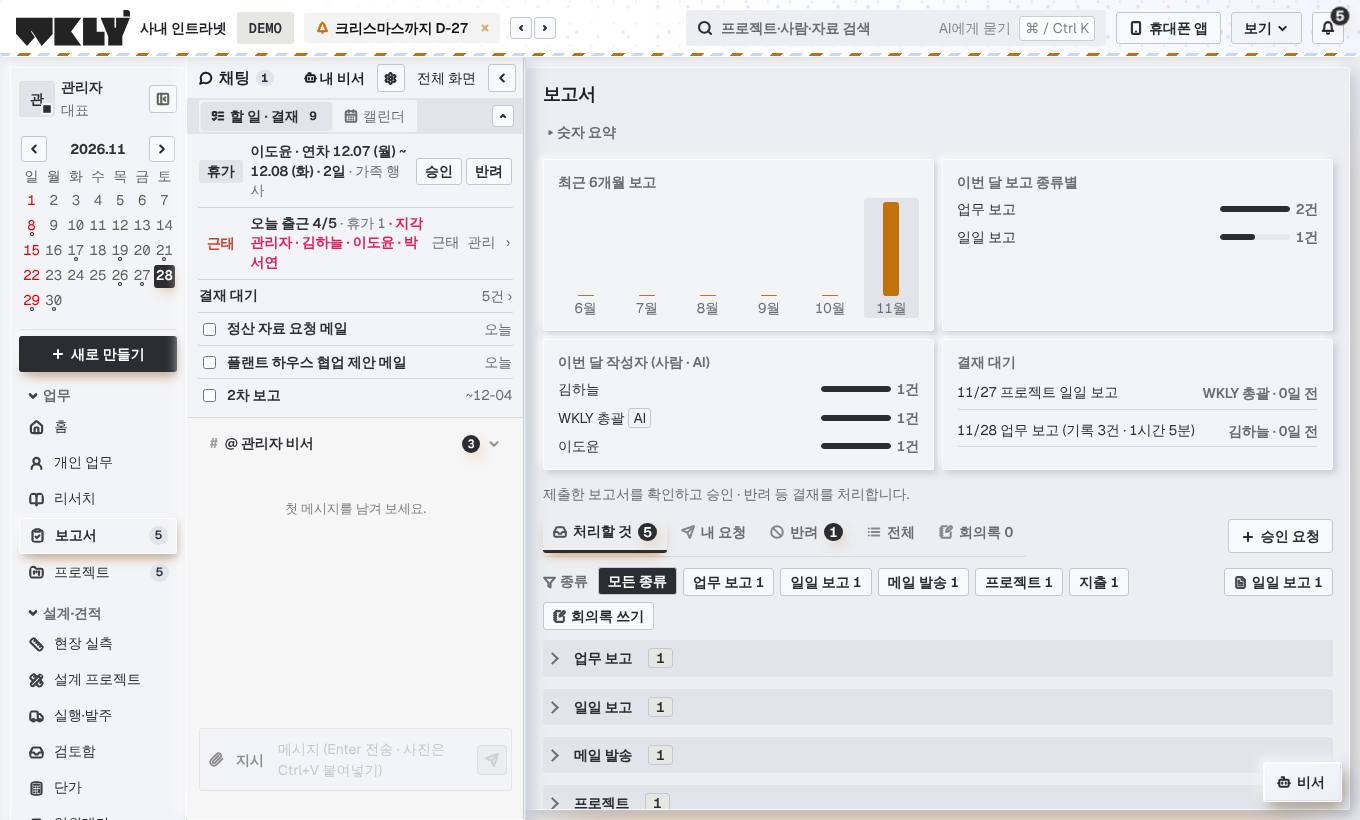
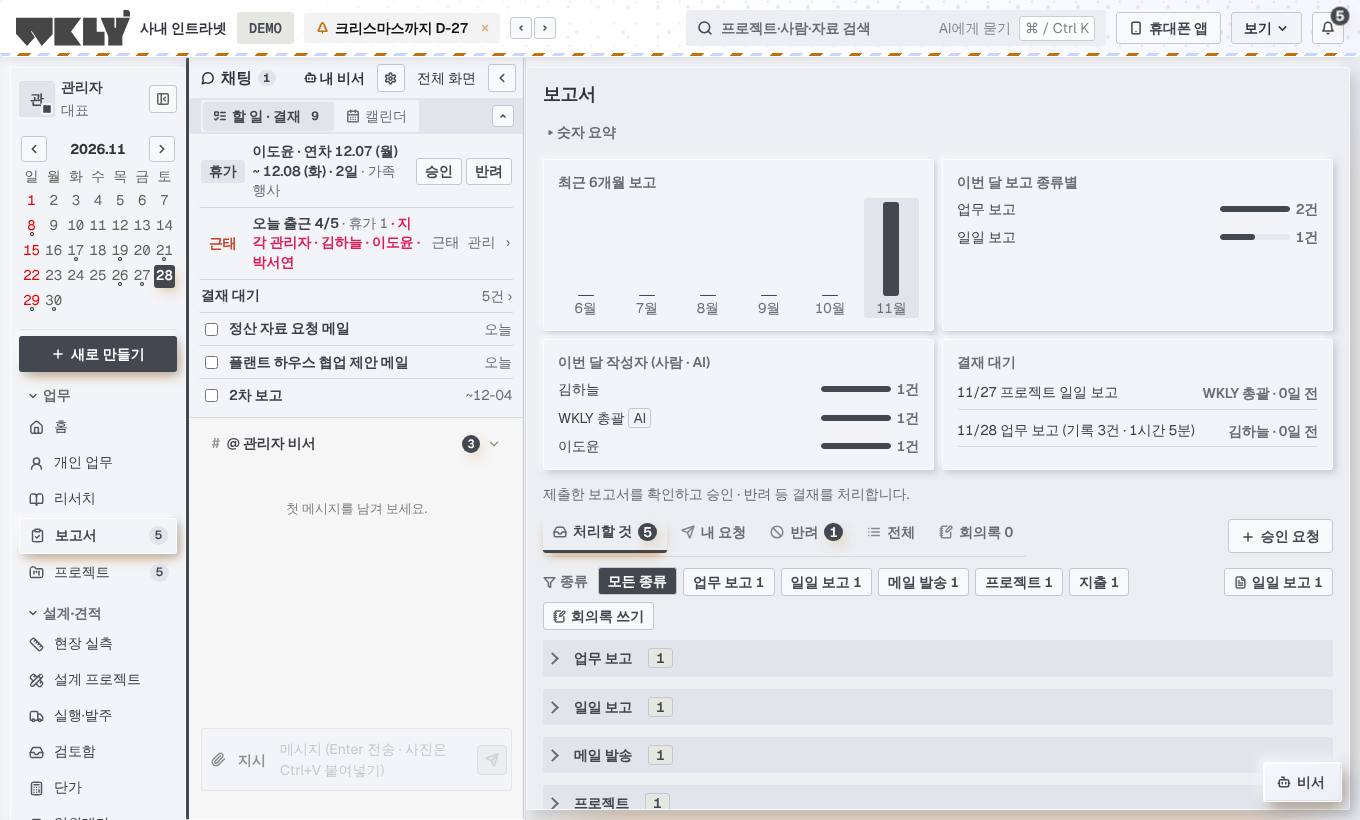
오프 블랙 · 얇은 아이콘 선 · 또렷한 채팅 손잡이(왼쪽에서 늘어남)
Claude-Session: https://claude.ai/code/session_01F3gTQwJrgJEzSdbh5GAwru

diff --git a/erp/src/mono.css b/erp/src/mono.css
@@ -276,7 +276,7 @@ html:not([data-theme="dark"]) .dash-day { background: var(--nm-face); border-col
 /* 스위치: <input type="checkbox" class="nm-switch"> — 켜면 먹색 홈 + 흰 손잡이 */
 input[type="checkbox"].nm-switch { appearance: none; -webkit-appearance: none; position: relative; width: 44px; height: 24px; margin: 0; border: 0; border-radius: 999px; background: #dfe2e8; box-shadow: var(--nm-in-sm, inset 0 1px 3px rgba(0, 0, 0, .2)); cursor: pointer; vertical-align: middle; transition: background-color .2s ease; flex: none; }
 input[type="checkbox"].nm-switch::after { content: ''; position: absolute; top: 2px; left: 2px; width: 20px; height: 20px; border-radius: 50%; background: #fff; box-shadow: 1px 2px 5px rgba(120, 128, 148, .55); transition: transform .2s ease; }
-input[type="checkbox"].nm-switch:checked { background: var(--v9-ink, #2b2d33); }
+input[type="checkbox"].nm-switch:checked { background: var(--v9-ink, #43474f); }
 input[type="checkbox"].nm-switch:checked::after { transform: translateX(20px); }
 input[type="checkbox"].nm-switch:focus-visible { outline: 2px solid var(--v9-accent); outline-offset: 2px; }
 /* 둥근 단추(아이콘) = 손잡이처럼 */
@@ -328,7 +328,7 @@ html:not([data-theme="dark"]) {
 }
 /* 주 버튼 = 먹색 + 메뉴 색 네온 그림자 */
 html:not([data-theme="dark"]) :is(.btn-primary, .new-btn, .today-ok, .btn.primary):not(:disabled) { background: var(--v9-ink) !important; color: #fff !important; box-shadow: var(--nm-up-sm), var(--nm-neon-sm) !important; }
-html:not([data-theme="dark"]) :is(.btn-primary, .new-btn, .today-ok, .btn.primary):not(:disabled):hover { background: #3a3d45 !important; box-shadow: var(--nm-up-sm), var(--nm-neon) !important; }
+html:not([data-theme="dark"]) :is(.btn-primary, .new-btn, .today-ok, .btn.primary):not(:disabled):hover { background: #565a64 !important; box-shadow: var(--nm-up-sm), var(--nm-neon) !important; }
 html:not([data-theme="dark"]) .app-page .profile :is(.new-btn, .btn-primary) { box-shadow: var(--nm-up-sm), var(--nm-neon-sm) !important; }
 /* 자주 누르는 버튼 · 고른 것 = 먹색 글자, 빛만 메뉴 색 */
 html:not([data-theme="dark"]) :is(.btn-blue, .btn-yellow, .send-btn):not(:disabled) { color: var(--v9-ink); }
@@ -358,9 +358,9 @@ html:not([data-theme="dark"]) .ast-fab { box-shadow: var(--nm-up-sm), var(--nm-n
 html:not([data-theme="dark"]) :is(.badge, .tag, .pill):not(.red):not(.late):not(.bad) { background: #e1e4ea; color: var(--v9-ink); border-color: transparent; }
 html:not([data-theme="dark"]) :is(.badge.red, .badge.late, .tag.red) { background: var(--nm-face); color: #c8442f; box-shadow: var(--nm-in-sm); border-color: transparent; }
 /* 홈 그래프: 끝낸 일 = 먹색, 마감 예정 = 회색, 지연 = 산호색 하나 — 빛만 메뉴 색 */
-html:not([data-theme="dark"]) :is(.dash-flow-col i.f-done, .dash-legend i.f-done, .dash-vbar-track i.s-active) { background: linear-gradient(160deg, #4a4d57, var(--v9-ink)); box-shadow: 1px 2px 5px -1px color-mix(in srgb, var(--v9-accent) 75%, transparent); }
+html:not([data-theme="dark"]) :is(.dash-flow-col i.f-done, .dash-legend i.f-done, .dash-vbar-track i.s-active) { background: linear-gradient(160deg, #5d616b, var(--v9-ink)); box-shadow: 1px 2px 5px -1px color-mix(in srgb, var(--v9-accent) 75%, transparent); }
 html:not([data-theme="dark"]) :is(.dash-flow-col i.f-due, .dash-legend i.f-due) { background: #b9bec9; box-shadow: none; }
-html:not([data-theme="dark"]) .dash-flow-col.is-today i.f-due { background: linear-gradient(160deg, #4a4d57, var(--v9-ink)); box-shadow: 0 0 0 2px color-mix(in srgb, var(--v9-accent) 30%, transparent), 2px 4px 12px color-mix(in srgb, var(--v9-accent) 80%, transparent); }
+html:not([data-theme="dark"]) .dash-flow-col.is-today i.f-due { background: linear-gradient(160deg, #5d616b, var(--v9-ink)); box-shadow: 0 0 0 2px color-mix(in srgb, var(--v9-accent) 30%, transparent), 2px 4px 12px color-mix(in srgb, var(--v9-accent) 80%, transparent); }
 html:not([data-theme="dark"]) .dash-flow-col.is-today span { color: var(--v9-ink); }
 
 /* 휴대폰 (2026-11-28 대표 '휴대폰 화면도 볼록 오목 디자인으로'): 아래 메뉴 = 떠 있는 판, 고른 칸 = 눌린 홈 + 메뉴 색 빛 */
@@ -442,7 +442,7 @@ html:not([data-theme="dark"]) button.item:is(.active, .on) { box-shadow: none; b
 [data-fold-head]::after { content: ''; position: absolute; left: 4px; top: 50%; width: 7px; height: 7px; margin-top: -5px; border-right: 2px solid var(--tx-sub, #6b6d72); border-bottom: 2px solid var(--tx-sub, #6b6d72); transform: rotate(45deg); transition: transform .2s ease; }
 [data-fold-head="1"]::after { transform: rotate(-45deg); margin-top: -4px; }
 [data-fold-head]::before { display: none !important; }
-[data-fold-head]:hover::after { border-color: var(--v9-ink, #2b2d33); }
+[data-fold-head]:hover::after { border-color: var(--v9-ink, #43474f); }
 [data-card-fold="1"] > :not(:first-child), [data-card-hidden="1"] { display: none !important; }
 [data-fold-head="1"] { margin-bottom: 0 !important; border-bottom-color: transparent !important; }
 @media print { [data-card-fold="1"] > :not(:first-child), [data-card-hidden="1"] { display: revert !important; } }
@@ -450,7 +450,7 @@ html:not([data-theme="dark"]) button.item:is(.active, .on) { box-shadow: none; b
 /* 제목 줄 없는 묶음 접기(숫자 카드 줄 · 오른쪽 일정 칸): 이름 띠를 눌러 접고 폄 */
 [data-fold-group]::before { content: '▾  ' attr(data-fold-label); display: block; grid-column: 1 / -1; flex: 0 0 100%; width: 100%; padding: 6px 4px; color: var(--tx-sub, #6b6d72); font-size: var(--fs-body); font-weight: 600; cursor: pointer; user-select: none; }
 [data-fold-group="1"]::before { content: '▸  ' attr(data-fold-label); }
-[data-fold-group]:hover::before { color: var(--v9-ink, #2b2d33); }
+[data-fold-group]:hover::before { color: var(--v9-ink, #43474f); }
 [data-fold-group="1"] > * { display: none !important; }
 [data-fold-group="1"] { min-height: 0 !important; height: auto !important; }
 
@@ -491,3 +491,23 @@ html:not([data-theme="dark"]) .rd-month .bar-pair i.in { background: var(--v9-in
   /* 카드 그림자 줄이기: 좁은 화면에서는 옅게 */
   html:not([data-theme="dark"]) :is(.box, .stat, .kpi, .card, .home-kpi, .today-card, .checkin-card, .brief, .rd-box, .pc-card, .proj-card, .dash-kpi, .dash-card, .section, .sales-pipe) { box-shadow: 2px 3px 8px var(--nm-lo), -2px -2px 6px var(--nm-hi); }
 }
+
+/* 2026-11-28 대표 '분명히 구분되게 만들고 왼쪽에서 늘어나게 · 선이 너무 굵어 얇게' */
+/* 아이콘 선은 얇게 (전체 공통) */
+html:not([data-theme="dark"]) svg.lucide, html:not([data-theme="dark"]) .app-page .profile .side-item > svg, html:not([data-theme="dark"]) .m-nav svg { stroke-width: 1.5 !important; }
+/* 접힌 채팅 손잡이: 먹색으로 또렷하게 · 왼쪽 판에 붙어 있음 */
+html:not([data-theme="dark"]) .app-page .body > .chat-dock.closed { width: 44px; margin-left: -2px; }
+html:not([data-theme="dark"]) .chat-dock.closed .chat-dock-open { background: var(--v9-ink) !important; color: #fff !important; border: 0; box-shadow: 4px 5px 12px var(--nm-lo), var(--nm-neon-sm); transition: width .2s ease, padding .2s ease, box-shadow .2s ease; }
+html:not([data-theme="dark"]) .chat-dock.closed .chat-dock-open :is(svg, span, .chat-dock-vert) { color: #fff !important; }
+html:not([data-theme="dark"]) .chat-dock.closed .chat-dock-open:hover { background: #565a64 !important; width: calc(100% + 8px); box-shadow: 4px 5px 12px var(--nm-lo), var(--nm-neon); }
+/* 펼칠 때: 왼쪽에서 늘어남 */
+@keyframes dock-grow { from { clip-path: inset(0 100% 0 0); opacity: .4; } to { clip-path: inset(0 0 0 0); opacity: 1; } }
+html:not([data-theme="dark"]) .app-page .body > .chat-dock:not(.closed) { animation: dock-grow .28s ease-out both; transform-origin: left center; border-left: 3px solid var(--v9-ink) !important; }
+@media (prefers-reduced-motion: reduce) { .app-page .body > .chat-dock:not(.closed) { animation: none !important; } }
+
+/* 검정은 더 연한 오프 블랙으로 (2026-11-28 대표 '검정색은 좀더 오프색으로 변경해') */
+html:not([data-theme="dark"]) {
+  --v9-ink: #43474f; --v8-green: #43474f; --v8-green-hover: #565a64; --v8-ink: #32353c; --v8-text: #3d4047;
+  --tx-title: #32353c; --tx-body: #3d4047; --tx-key: #43474f; --green: #43474f; --blue: #43474f; --pink: #43474f; --div-ar: #43474f;
+}
+html:not([data-theme="dark"]) .top-logo .logo-ink, html:not([data-theme="dark"]) .profile-logo img { opacity: .72; }

diff --git a/erp/src/pages/Dashboard.css b/erp/src/pages/Dashboard.css
@@ -13,7 +13,7 @@
 .dash-kpi.bad b { color: var(--red, #c0392b); }
 .dash-spark { grid-area: spark; background: var(--nm-face, #fff); border-radius: 0 0 10px 0; display: flex; align-items: flex-end; gap: 3px; padding: 0 12px 12px; height: 100%; min-height: 34px; }
 .dash-spark i { width: 3px; border-radius: 2px; background: #d2d2ce; }
-.dash-spark i.top { background: var(--v9-ink, #2b2d33); }
+.dash-spark i.top { background: var(--v9-ink, #43474f); }
 .dash-kpi-foot { grid-area: foot; font-size: var(--fs-body); color: var(--tx-sub); padding: 6px 12px 4px; white-space: nowrap; overflow: hidden; text-overflow: ellipsis; }
 .dash-kpi.is-key { box-shadow: var(--glow-2, none); border-color: transparent; }
 .dash-kpi.is-key .dash-spark i.top { background: var(--v9-accent, #1f4dff); box-shadow: 2px 2px 8px color-mix(in srgb, var(--v9-accent) 70%, transparent); }
@@ -28,7 +28,7 @@
 .dash-empty { color: var(--tx-sub); font-size: var(--fs-body); margin: 6px 0; }
 .dash-legend { display: inline-flex; flex-wrap: wrap; align-items: center; gap: 4px 6px; font-size: var(--fs-body); color: var(--tx-sub); }
 .dash-legend i { width: 9px; height: 9px; border-radius: 2px; display: inline-block; margin-left: 8px; }
-.s-active { background: var(--v9-ink, #2b2d33); } .s-inq { background: #9a9a96; } .s-done { background: #cfcfcb; } .s-other { background: #e6e6e3; } .s-late { background: #d2564a; }
+.s-active { background: var(--v9-ink, #43474f); } .s-inq { background: #9a9a96; } .s-done { background: #cfcfcb; } .s-other { background: #e6e6e3; } .s-late { background: #d2564a; }
 
 /* 업무 흐름: 점 격자 */
 .dash-flow-top { display: flex; align-items: baseline; gap: 8px; margin-bottom: 12px; flex-wrap: wrap; }
@@ -36,7 +36,7 @@
 .dash-flow { display: grid; grid-auto-flow: column; grid-auto-columns: minmax(0, 1fr); gap: 3px; }
 .dash-flow-col { display: flex; flex-direction: column; gap: 3px; align-items: stretch; position: relative; min-width: 0; }
 .dash-flow-col i { display: block; aspect-ratio: 1; max-height: 16px; border-radius: 3px; background: #f1f1ef; }
-.dash-flow-col i.f-done { background: var(--v9-ink, #2b2d33); } .dash-flow-col i.f-due { background: #a9a9a5; } .dash-flow-col i.f-late { background: #d2564a; }
+.dash-flow-col i.f-done { background: var(--v9-ink, #43474f); } .dash-flow-col i.f-due { background: #a9a9a5; } .dash-flow-col i.f-late { background: #d2564a; }
 .dash-flow-col span { font-family: var(--mono); font-size: var(--fs-body); color: var(--tx-sub); white-space: nowrap; height: 1.4em; margin-top: 4px; overflow: visible; }
 .dash-flow-col.is-today i:not([class]), .dash-flow-col.is-today i[class=''] { background: var(--v9-accent-tint, #e9eeff); }
 .dash-flow-col.is-today { filter: drop-shadow(3px 4px 6px color-mix(in srgb, var(--v9-accent) 55%, transparent)); }
@@ -60,10 +60,10 @@
 .dash-table tbody tr:hover { background: #fafaf9; }
 .dash-table-name { color: var(--tx-title); font-weight: 600; text-decoration: none; }
 .dash-table-name:hover { text-decoration: underline; }
-.dash-prog { display: inline-block; vertical-align: middle; width: 90px; height: 6px; border-radius: 3px; background: #ececea; overflow: hidden; } .dash-prog i { display: block; height: 100%; background: var(--v9-ink, #2b2d33); border-radius: 3px; }
+.dash-prog { display: inline-block; vertical-align: middle; width: 90px; height: 6px; border-radius: 3px; background: #ececea; overflow: hidden; } .dash-prog i { display: block; height: 100%; background: var(--v9-ink, #43474f); border-radius: 3px; }
 .dash-pct { margin-left: 8px; color: var(--tx-sub); }
 .dash-d { font-family: var(--mono); font-size: var(--fs-body); padding: 2px 9px; border-radius: 999px; background: #f0f0ee; color: var(--tx-sub); }
-.dash-d.soon { background: var(--v9-ink, #2b2d33); color: #fff; } .dash-d.late { background: #fbe6e3; color: #b3372a; }
+.dash-d.soon { background: var(--v9-ink, #43474f); color: #fff; } .dash-d.late { background: #fbe6e3; color: #b3372a; }
 .dash-pill { display: inline-flex; align-items: center; gap: 6px; font-size: var(--fs-body); padding: 2px 10px; border-radius: 999px; border: 1px solid var(--line); background: var(--nm-face, #fff); }
 .dash-pill::before { content: ''; width: 7px; height: 7px; border-radius: 50%; background: var(--v9-live, #33d17a); box-shadow: 0 0 6px var(--v9-live, #33d17a); }
 .dash-pill.bad::before { background: #d2564a; box-shadow: 0 0 6px rgba(210, 86, 74, .8); }
@@ -74,7 +74,7 @@
 .dash-day.is-rest { background: #fafaf9; } .dash-day.is-today { border-color: transparent; box-shadow: var(--glow-2, none); }
 .dash-day-h { font-family: var(--mono); font-size: var(--fs-body); color: var(--tx-sub); } .dash-day-h b { font-weight: 600; color: var(--tx-title); }
 .dash-ev { display: block; font-size: var(--fs-body); line-height: 1.3; padding: 2px 6px; border-radius: 6px; background: #f0f0ee; color: var(--tx-body); text-decoration: none; overflow: hidden; display: -webkit-box; -webkit-line-clamp: 2; -webkit-box-orient: vertical; word-break: break-all; }
-.dash-ev.e-start { background: var(--v9-ink, #2b2d33); color: #fff; } .dash-ev.e-end { background: var(--nm-face, #fff); color: var(--v9-ink, #2b2d33); box-shadow: inset 0 0 0 1px var(--v9-ink, #2b2d33); }
+.dash-ev.e-start { background: var(--v9-ink, #43474f); color: #fff; } .dash-ev.e-end { background: var(--nm-face, #fff); color: var(--v9-ink, #43474f); box-shadow: inset 0 0 0 1px var(--v9-ink, #43474f); }
 .dash-more { font-size: var(--fs-body); color: var(--tx-sub); }
 .dash-bar-row { display: grid; grid-template-columns: 96px minmax(0, 1fr) 64px; align-items: center; gap: 10px; padding: 7px 0; font-size: var(--fs-body); }
 .dash-bar-name { color: var(--tx-body); white-space: nowrap; overflow: hidden; text-overflow: ellipsis; }
@@ -102,7 +102,7 @@ html[data-theme=dark] :is(.dash-body, .dash-kpi-l, .dash-kpi b, .dash-spark, .da
 .dash-kpi-l { background: transparent; padding: 0; color: var(--tx-sub); }
 .dash-kpi b { background: transparent; padding: 2px 0 0; font-size: calc(var(--t-num, 24px) * 1.15); }
 .dash-kpi-foot { padding: 8px 0 0; margin-top: 8px; border-top: 1px solid var(--v8-line, #d5d8df); }
-.dash-kpi-ic { grid-area: ic; display: grid; place-items: center; width: 46px; height: 46px; border-radius: 50%; background: var(--nm-face, #f3f4f7); box-shadow: var(--nm-up-sm, 0 1px 3px rgba(0, 0, 0, .15)); color: var(--v9-ink, #2b2d33); }
+.dash-kpi-ic { grid-area: ic; display: grid; place-items: center; width: 46px; height: 46px; border-radius: 50%; background: var(--nm-face, #f3f4f7); box-shadow: var(--nm-up-sm, 0 1px 3px rgba(0, 0, 0, .15)); color: var(--v9-ink, #43474f); }
 .dash-kpi-ic svg { width: 18px; height: 18px; }
 .dash-kpi.is-key .dash-kpi-ic { background: var(--v9-accent); color: #fff; box-shadow: 4px 6px 14px -4px color-mix(in srgb, var(--v9-accent) 65%, transparent); }
 .dash-kpi.bad .dash-kpi-ic { color: var(--red, #c0392b); }

diff --git a/erp/src/pages/Board.css b/erp/src/pages/Board.css
@@ -98,5 +98,5 @@ button.pboards-item { padding-right: 120px; }
 .board-pages { flex-wrap: nowrap; overflow-x: auto; scrollbar-width: thin; }
 .board-pages > * { flex: none; }
 .board-pages-gap { flex: 1 1 12px !important; min-width: 12px; }
-.board-toolsbtn.on { background: var(--v9-ink, #2b2d33) !important; color: #fff !important; border-color: var(--v9-ink, #2b2d33) !important; }
+.board-toolsbtn.on { background: var(--v9-ink, #43474f) !important; color: #fff !important; border-color: var(--v9-ink, #43474f) !important; }
 .board-bar { flex-wrap: nowrap; } .board-bar .board-title { flex: 1 1 160px; }

diff --git a/CLAUDE.md b/CLAUDE.md
@@ -112,7 +112,7 @@ Codex 공동 개발은 끝났다(2026-11-16 종료 · 2026-11-20 대표 지시 '
   - `src/styles.css` : 디자인 토큰 · WKLY v7 디자인 시스템 (사각 모서리, 글자 크기 단계 `--fs-cap 12 · sm 12.5 · body 13.5 · sub 14.5 · title 16 · num 19 · hero 28` (2026-11-09 위계 다시 잡음 · 맨 아래 :root 가 최종값 · 터치 화면은 반 단계 큼))
   - (아래 글자 위계의 굵기 800 · 700 은 2026-11-28 디자인 v9 에서 700 · 600 으로, 색 값은 mono.css 토큰으로 바뀜 — 크기 3단계 · px 직접 쓰지 않기 규칙은 그대로)
   - **글자 위계 (2026-11-17 대표 지시 '전체 공통사항 · 글자 크기는 타이틀 · 본문 · 강조 3가지만 · 색 구분과 볼드 규칙') — 새 화면도 반드시 지킬 것**: `src/type.css` 를 main.tsx 맨 끝에서 읽어 앞의 모든 단계를 덮어씀. 크기 3개 = 타이틀 `--t-title` 18px(제목 · 큰 숫자) · 강조 `--t-em` 15.5px(소제목 · 이름 줄) · 본문 `--t-body` 14px(나머지 전부 — 날짜 · 메타 · 배지 포함, 터치 화면 18.5/16/15) · 예전 토큰은 cap/sm/small/body → 본문, sub → 강조, title/num/hero → 타이틀로 이어짐. CSS 에 px 글자 크기를 새로 쓰지 말고 var(--fs-body | --fs-sub | --fs-title) 만 쓸 것(2026-11-17 에 94곳 바꿈 · 예외는 알림 숫자 동그라미 .side-n · .q2-badge · .bell .count 12px). 굵기 3개 = 800 타이틀 · 700 강조 · 400 본문(500 · 600 · 650 · 750 안 씀 · 76곳 바꿈). 색 = --tx-title #151d18 · --tx-body #222a25 · --tx-sub #535c56(보조는 크기 대신 색으로 낮춤 · --gray 도 이 색) · --tx-key #1f6b4a(누를 수 있는 것 · 고른 것) · 빨강은 지연 · 경고만. 묶음 클래스 .tx-title · .tx-em · .tx-body · .tx-sub · .tx-key. 차트 SVG 글자(charts.tsx 등)는 그대로
-  - **디자인 v9 모노톤 + 네온 빛 (2026-11-28 대표가 핀터레스트 참고 화면 넷을 골라 '이것들을 조합해서 디자인잡아 · 인트라넷 디자인 전체를 변경해 · 모노톤과 네온 효과' → '남은 화면들도 모노톤으로 · 폰트와 디자인규칙까지 모두 변경해 · 대시보드또한 디자인 배치 다시' · '색은 첨부이미지와 같이 네온 효과' · '빛이 새어나가는 효과를 잘 만들어') — 규칙 문서 `erp/docs/DESIGN_V9.md` · 새 화면도 반드시 이 규칙**: `src/mono.css`(main.tsx 맨 끝)가 토큰을 정함. ① 색 = 회색 계열 하나(바탕 #f0f0ee · 흰 카드 · 먹색 #141414 = 고른 것 · 막대) + 네온 파랑 `--v9-accent` #1f4dff 하나 · 빨강 · 노랑은 지연 · 경고만 · 초록 점은 '정상'만 ② 네온 = 가장자리에서 오른쪽 아래로 새어 나가는 파랑 빛 `--glow-1/2/3` · `--neon-soft` — 주 버튼 · 고른 것 · 오늘 · 가장 중요한 숫자 하나 · 누를 수 있는 카드 hover 에만, 글자색으로는 안 씀 ③ 글꼴 = 영문 · 숫자 Geist · 한글 Pretendard · 큰 숫자 · 연번 Geist Mono(구글 폰트 · index.html) · 크기 18 / 15.5 / 14 그대로 + 큰 숫자 `--t-num` 24 · **굵기 700 / 600 / 400**(예전 800 / 700 을 CSS 전체에서 한 단계씩 내림) ④ 모서리 카드 14 · 버튼 10 · 알약 ⑤ 카드 틀 = 회색 머리 + 흰 본문. 같은 날 **모든 CSS 의 굳은 색을 회색으로 바꿈**(초록 · 미색 · 보라 → 같은 밝기 회색 · 파랑 → `--v9-accent` / `-tint` · '화면 어둡게' 규칙 줄은 그대로 · 빨강 · 주황 · 노랑은 그대로) — **새 CSS 에 색 값을 직접 쓰지 말고 토큰을 쓸 것.** 구분 색은 `--div-ar/tw/rs`(먹색 · 회색 · 연회색) · 달력 내 업무는 네온 파랑. 홈 대시보드 새 배치(`pages/Dashboard.tsx` · `.css`): 인사 + 주 버튼 → 숫자 카드 넷(작은 막대 · 아래 설명 줄 · 첫 카드에 빛) → '업무 흐름' 점 격자(지난 2주 끝낸 일 · 앞으로 2주 마감 · 오늘 기둥에 빛 · `lib/dashboard.ts` dayFlow) + 팀원 세로 막대 → 마감이 가까운 프로젝트 표(진행 막대 · 상태 알약) → 앞으로 7일 · 구분별 → 진행 프로젝트 카드. 같은 날 2차 '부드럽게'(대표 '아직 안 바꾼 곳들도 모두 모노톤으로' · '디자인 ui,ux도 바꿔 · 색상의 사용도 수정하고 · 부드러운 느낌'): 새까만 색 대신 부드러운 먹색 `--v9-ink` #2b2d33 · 고른 것은 검은 알약 대신 연한 파랑 바탕 · 자주 누르는 버튼(.btn-blue 등)은 연한 파랑 · 테두리 대신 옅은 그림자 · 카드 18 / 버튼 12 · **styles.css 의 '모든 모서리 0 !important' 고정을 없앰(다시 넣지 말 것)** · 빛은 테 없이 넓게 · 0.2초 전환 · 창 뒤 뿌옇게. 차트(LedgerStats · MarketingFlow) · 화이트보드(미니맵 · 커서 · Excalidraw 색) · 설계(제안 보드 견본 색 · 3D 바닥 · 도면 바탕) · 기념일 장식 띠 · PC 오프라인 화면(desktop/offline.html — 다음 PC 프로그램 릴리스 때 반영)도 회색 + 네온 파랑. 그대로 둔 것: 실제 자재 색(3D · 마감재) · 거래처에 나가는 것(제안서 슬라이드 · 영업 메일 · 카드뉴스 · 광고 이미지). 같은 날 3차 '선명하게 · 메뉴마다 다른 색'(대표 '광고 화면 기간 고르기 칸과 묶음 탭도 고쳐 · 아이콘과 배경들 각각의 카드들의 선구분을 선명하게 · 색은 각 메뉴마다 다른 색' · 참고 Product UI Styleguide): **강조색 `--v9-accent` 는 메뉴마다 다름**(`lib/menuColors.ts` · Shell 이 지금 메뉴 색을 html 에 넣음 · 빛 · 연한 바탕 · 주 버튼은 color-mix 로 계산 — CSS 에 파랑을 직접 쓰지 말 것 · 새 메뉴는 색 한 줄 추가) · 왼쪽 메뉴는 대표 지시로 다시 모노톤(아이콘 · 고른 줄 · 숫자 칸 먹색 — 메뉴 색은 화면 안에서만) · 카드는 흰 바탕 + 1px 선 #dbdbd7 + 옅은 그림자(바탕 #eeeeeb) · 광고 묶음 탭 = 홈 안의 흰 카드 · 기간 고르기 = 알약. 같은 날 4차 '볼록 · 오목'(대표가 뉴모피즘 참고 그림 두 장을 보내 '이 ui도 사용해' · '이것도 넣어'): 면은 바탕과 거의 같은 밝은 회색 · 구분은 왼쪽 위 빛 + 오른쪽 아래 그림자(`--nm-up` 떠 있음 = 카드 · 버튼 / `--nm-in` 눌림 = 입력 칸 · 고른 칩 · 고른 메뉴 줄) · 구간 고르기는 회색 홈 + 흰 알약 · 켜고 끄는 설정은 체크박스에 className `nm-switch`(스위치 모양). 같은 날 5차(대표 '나머지 화면들도 모두 볼록 오목 디자인으로 · 모서리 라운드 좀 더 각지게'): 흰 바탕을 없앰 — `--white` · `--v8-card` 와 모든 CSS 의 흰 바탕 165곳을 `var(--nm-face)` 로(**새 CSS 에 `background: #fff` 를 쓰지 말 것**) · 테두리 있는 묶음 칸 30여 종을 떠 있는 모양으로 · 모서리 카드 10 / 버튼 · 입력 · 칩 7 / 큰 판 12(알약 · 원은 스위치와 숫자 동그라미만). **같은 날 최종 규칙(대표 '너무 많은 색을 사용하지마 · 전체적으로 모노톤에 그림자를 네온 번지는 효과로 · 각 메뉴마다 다른 색' · '휴대폰 화면도 볼록 오목'): 면 · 글자 · 아이콘 · 버튼 · 숫자 동그라미는 먹색과 회색만, 메뉴 색(`--v9-accent`)은 그림자가 번지는 빛(`--nm-neon` · `--nm-neon-sm`)으로만 쓴다 — 색 글자 · 색 바탕 버튼 · 색 배지를 새로 만들지 말 것. 빨강(산호색)은 지연 · 경고만. 휴대폰 아래 메뉴도 떠 있는 판 + 고른 칸 눌린 홈.** 같은 날(대표 '채팅 화면도 볼록 오목 · 아이콘 오목으로 · 채팅 상단부 높이 내려서 왼쪽에서 돌출 · 비서도 양각 유리'): 왼쪽 메뉴 아이콘 칸 = 오목 · 접힌 채팅 칸(.chat-dock.closed) = 왼쪽 판에서 튀어나온 짧은 손잡이 · 비서 단추(.ast-fab) · 비서 창 = 양각 유리 · 채팅 방 목록 눌린 홈 / 고른 방 떠 있음 / 입력 칸 눌린 홈. **절제(대표 '양각과 음각을 너무 많이 사용하지마 사용성 떨어져'): 깊이는 한 단계만 — 떠 있는 것은 큰 카드 · 본문 판 · 주 버튼 · 비서 단추 · 접힌 채팅 손잡이, 눌린 것은 왼쪽 메뉴 아이콘 칸뿐. 카드 안의 표 · 칩 · 작은 버튼 · 입력 칸 · 막대 · 말풍선은 평평하게(옅은 선 · `--nm-flat` · `--nm-field`) — 새 화면에서 카드 안에 그림자를 또 넣지 말 것.** 화이트보드 편집기 머리(대표 '두줄로 줄이고 전체보기 네비게이션도 포함해서 접었다 펼 수 있게'): 첫 줄 = 이름 · 상태 · '도구' 단추 · 전체 화면, 둘째 줄(도구 줄 · 한 줄 · 넘치면 옆으로 밀기) = 페이지 · PPT 불러오기 · 피그마 · PNG · PDF · PPT · 지도 단추 — '도구'로 접고 폄(기본 접힘 · localStorage wkly-board-tools) · 전체 보기 지도도 도구를 펼쳤을 때만 보임. **모든 카드 접기(대표 '모든 카드는 접을 수 있게 만들고 기본은 접은 상태야' · 범위 확인 '인트라넷 전체 카드' · `lib/foldCards.ts` · main.tsx startFoldCards): 본문의 제목 줄 있는 묶음은 처음에 제목만 보이고 누르면 펼침 · 펼친 것은 브라우저에 기억(wkly-card-open) · 주소에 id · inquiry 등 특정 항목이 있으면 안 접음 · 새 카드는 제목에 SectionHead 를 쓰면 저절로 대상 · 접히면 안 되는 곳은 `data-no-fold`. 시험 tests/fold-cards.test.ts.** 같은 날(대표 '숫자 카드와 오른쪽 일정 칸도 접을 수 있게 · 모서리 라운드 최소화' · '아이콘들 양각 효과 없애 전체 공통이야'): 숫자 카드 줄 · 오른쪽 일정 칸도 이름 띠로 접고 폄(foldCards.ts GROUPS · 기본 접힘) · **모서리는 어디나 3px**(스위치 · 숫자 동그라미 · 점만 예외) · **아이콘 · 아이콘 칸은 평평하게(그림자 · 볼록 · 오목 금지)**. 사용 안내 사진 13장 · 영상 3개 다시 찍음 · 안내 글(guides.ts 두 곳)의 홈 · 할 일(/my) · 일정(/projects?view=calendar)을 새 구조에 맞춤(agent-chat 쪽은 다음 배포 때 반영).
+  - **디자인 v9 모노톤 + 네온 빛 (2026-11-28 대표가 핀터레스트 참고 화면 넷을 골라 '이것들을 조합해서 디자인잡아 · 인트라넷 디자인 전체를 변경해 · 모노톤과 네온 효과' → '남은 화면들도 모노톤으로 · 폰트와 디자인규칙까지 모두 변경해 · 대시보드또한 디자인 배치 다시' · '색은 첨부이미지와 같이 네온 효과' · '빛이 새어나가는 효과를 잘 만들어') — 규칙 문서 `erp/docs/DESIGN_V9.md` · 새 화면도 반드시 이 규칙**: `src/mono.css`(main.tsx 맨 끝)가 토큰을 정함. ① 색 = 회색 계열 하나(바탕 #f0f0ee · 흰 카드 · 먹색 #141414 = 고른 것 · 막대) + 네온 파랑 `--v9-accent` #1f4dff 하나 · 빨강 · 노랑은 지연 · 경고만 · 초록 점은 '정상'만 ② 네온 = 가장자리에서 오른쪽 아래로 새어 나가는 파랑 빛 `--glow-1/2/3` · `--neon-soft` — 주 버튼 · 고른 것 · 오늘 · 가장 중요한 숫자 하나 · 누를 수 있는 카드 hover 에만, 글자색으로는 안 씀 ③ 글꼴 = 영문 · 숫자 Geist · 한글 Pretendard · 큰 숫자 · 연번 Geist Mono(구글 폰트 · index.html) · 크기 18 / 15.5 / 14 그대로 + 큰 숫자 `--t-num` 24 · **굵기 700 / 600 / 400**(예전 800 / 700 을 CSS 전체에서 한 단계씩 내림) ④ 모서리 카드 14 · 버튼 10 · 알약 ⑤ 카드 틀 = 회색 머리 + 흰 본문. 같은 날 **모든 CSS 의 굳은 색을 회색으로 바꿈**(초록 · 미색 · 보라 → 같은 밝기 회색 · 파랑 → `--v9-accent` / `-tint` · '화면 어둡게' 규칙 줄은 그대로 · 빨강 · 주황 · 노랑은 그대로) — **새 CSS 에 색 값을 직접 쓰지 말고 토큰을 쓸 것.** 구분 색은 `--div-ar/tw/rs`(먹색 · 회색 · 연회색) · 달력 내 업무는 네온 파랑. 홈 대시보드 새 배치(`pages/Dashboard.tsx` · `.css`): 인사 + 주 버튼 → 숫자 카드 넷(작은 막대 · 아래 설명 줄 · 첫 카드에 빛) → '업무 흐름' 점 격자(지난 2주 끝낸 일 · 앞으로 2주 마감 · 오늘 기둥에 빛 · `lib/dashboard.ts` dayFlow) + 팀원 세로 막대 → 마감이 가까운 프로젝트 표(진행 막대 · 상태 알약) → 앞으로 7일 · 구분별 → 진행 프로젝트 카드. 같은 날 2차 '부드럽게'(대표 '아직 안 바꾼 곳들도 모두 모노톤으로' · '디자인 ui,ux도 바꿔 · 색상의 사용도 수정하고 · 부드러운 느낌'): 새까만 색 대신 부드러운 먹색 `--v9-ink` #2b2d33 · 고른 것은 검은 알약 대신 연한 파랑 바탕 · 자주 누르는 버튼(.btn-blue 등)은 연한 파랑 · 테두리 대신 옅은 그림자 · 카드 18 / 버튼 12 · **styles.css 의 '모든 모서리 0 !important' 고정을 없앰(다시 넣지 말 것)** · 빛은 테 없이 넓게 · 0.2초 전환 · 창 뒤 뿌옇게. 차트(LedgerStats · MarketingFlow) · 화이트보드(미니맵 · 커서 · Excalidraw 색) · 설계(제안 보드 견본 색 · 3D 바닥 · 도면 바탕) · 기념일 장식 띠 · PC 오프라인 화면(desktop/offline.html — 다음 PC 프로그램 릴리스 때 반영)도 회색 + 네온 파랑. 그대로 둔 것: 실제 자재 색(3D · 마감재) · 거래처에 나가는 것(제안서 슬라이드 · 영업 메일 · 카드뉴스 · 광고 이미지). 같은 날 3차 '선명하게 · 메뉴마다 다른 색'(대표 '광고 화면 기간 고르기 칸과 묶음 탭도 고쳐 · 아이콘과 배경들 각각의 카드들의 선구분을 선명하게 · 색은 각 메뉴마다 다른 색' · 참고 Product UI Styleguide): **강조색 `--v9-accent` 는 메뉴마다 다름**(`lib/menuColors.ts` · Shell 이 지금 메뉴 색을 html 에 넣음 · 빛 · 연한 바탕 · 주 버튼은 color-mix 로 계산 — CSS 에 파랑을 직접 쓰지 말 것 · 새 메뉴는 색 한 줄 추가) · 왼쪽 메뉴는 대표 지시로 다시 모노톤(아이콘 · 고른 줄 · 숫자 칸 먹색 — 메뉴 색은 화면 안에서만) · 카드는 흰 바탕 + 1px 선 #dbdbd7 + 옅은 그림자(바탕 #eeeeeb) · 광고 묶음 탭 = 홈 안의 흰 카드 · 기간 고르기 = 알약. 같은 날 4차 '볼록 · 오목'(대표가 뉴모피즘 참고 그림 두 장을 보내 '이 ui도 사용해' · '이것도 넣어'): 면은 바탕과 거의 같은 밝은 회색 · 구분은 왼쪽 위 빛 + 오른쪽 아래 그림자(`--nm-up` 떠 있음 = 카드 · 버튼 / `--nm-in` 눌림 = 입력 칸 · 고른 칩 · 고른 메뉴 줄) · 구간 고르기는 회색 홈 + 흰 알약 · 켜고 끄는 설정은 체크박스에 className `nm-switch`(스위치 모양). 같은 날 5차(대표 '나머지 화면들도 모두 볼록 오목 디자인으로 · 모서리 라운드 좀 더 각지게'): 흰 바탕을 없앰 — `--white` · `--v8-card` 와 모든 CSS 의 흰 바탕 165곳을 `var(--nm-face)` 로(**새 CSS 에 `background: #fff` 를 쓰지 말 것**) · 테두리 있는 묶음 칸 30여 종을 떠 있는 모양으로 · 모서리 카드 10 / 버튼 · 입력 · 칩 7 / 큰 판 12(알약 · 원은 스위치와 숫자 동그라미만). **같은 날 최종 규칙(대표 '너무 많은 색을 사용하지마 · 전체적으로 모노톤에 그림자를 네온 번지는 효과로 · 각 메뉴마다 다른 색' · '휴대폰 화면도 볼록 오목'): 면 · 글자 · 아이콘 · 버튼 · 숫자 동그라미는 먹색과 회색만, 메뉴 색(`--v9-accent`)은 그림자가 번지는 빛(`--nm-neon` · `--nm-neon-sm`)으로만 쓴다 — 색 글자 · 색 바탕 버튼 · 색 배지를 새로 만들지 말 것. 빨강(산호색)은 지연 · 경고만. 휴대폰 아래 메뉴도 떠 있는 판 + 고른 칸 눌린 홈.** 같은 날(대표 '채팅 화면도 볼록 오목 · 아이콘 오목으로 · 채팅 상단부 높이 내려서 왼쪽에서 돌출 · 비서도 양각 유리'): 왼쪽 메뉴 아이콘 칸 = 오목 · 접힌 채팅 칸(.chat-dock.closed) = 왼쪽 판에서 튀어나온 짧은 손잡이 · 비서 단추(.ast-fab) · 비서 창 = 양각 유리 · 채팅 방 목록 눌린 홈 / 고른 방 떠 있음 / 입력 칸 눌린 홈. **절제(대표 '양각과 음각을 너무 많이 사용하지마 사용성 떨어져'): 깊이는 한 단계만 — 떠 있는 것은 큰 카드 · 본문 판 · 주 버튼 · 비서 단추 · 접힌 채팅 손잡이, 눌린 것은 왼쪽 메뉴 아이콘 칸뿐. 카드 안의 표 · 칩 · 작은 버튼 · 입력 칸 · 막대 · 말풍선은 평평하게(옅은 선 · `--nm-flat` · `--nm-field`) — 새 화면에서 카드 안에 그림자를 또 넣지 말 것.** 화이트보드 편집기 머리(대표 '두줄로 줄이고 전체보기 네비게이션도 포함해서 접었다 펼 수 있게'): 첫 줄 = 이름 · 상태 · '도구' 단추 · 전체 화면, 둘째 줄(도구 줄 · 한 줄 · 넘치면 옆으로 밀기) = 페이지 · PPT 불러오기 · 피그마 · PNG · PDF · PPT · 지도 단추 — '도구'로 접고 폄(기본 접힘 · localStorage wkly-board-tools) · 전체 보기 지도도 도구를 펼쳤을 때만 보임. **모든 카드 접기(대표 '모든 카드는 접을 수 있게 만들고 기본은 접은 상태야' · 범위 확인 '인트라넷 전체 카드' · `lib/foldCards.ts` · main.tsx startFoldCards): 본문의 제목 줄 있는 묶음은 처음에 제목만 보이고 누르면 펼침 · 펼친 것은 브라우저에 기억(wkly-card-open) · 주소에 id · inquiry 등 특정 항목이 있으면 안 접음 · 새 카드는 제목에 SectionHead 를 쓰면 저절로 대상 · 접히면 안 되는 곳은 `data-no-fold`. 시험 tests/fold-cards.test.ts.** 같은 날(대표 '숫자 카드와 오른쪽 일정 칸도 접을 수 있게 · 모서리 라운드 최소화' · '아이콘들 양각 효과 없애 전체 공통이야'): 숫자 카드 줄 · 오른쪽 일정 칸도 이름 띠로 접고 폄(foldCards.ts GROUPS · 기본 접힘) · **모서리는 어디나 3px**(스위치 · 숫자 동그라미 · 점만 예외) · **아이콘 · 아이콘 칸은 평평하게(그림자 · 볼록 · 오목 금지)**. 같은 날(대표 '분명히 구분되게 · 왼쪽에서 늘어나게 · 선이 너무 굵어 얇게' · '검정색은 좀더 오프색으로'): 먹색 `--v9-ink` = #43474f(더 짙게 되돌리지 말 것) · 아이콘 선 굵기 1.5 · 접힌 채팅 손잡이 = 먹색 바탕 + 흰 글자 · 채팅 칸은 왼쪽에서 늘어나며 열림(dock-grow). 사용 안내 사진 13장 · 영상 3개 다시 찍음 · 안내 글(guides.ts 두 곳)의 홈 · 할 일(/my) · 일정(/projects?view=calendar)을 새 구조에 맞춤(agent-chat 쪽은 다음 배포 때 반영).
   - 디자인 v8 (2026-11-16 대표 지시 '인트라넷 디자인 개선해' · Houzz Pro 스타일 계획 문서 1단계): `src/refresh.css` 를 main.tsx 맨 끝에서 읽음 — 따뜻한 미색 바탕(#f6f4ef) · 흰 작업 칸 · 둥근 모서리(카드 12 · 버튼·입력 8 · 태그 알약, v7 의 '모두 사각'을 덮어씀) · 흰 위쪽 바(초록 로고) · 테두리 없는 메뉴(고른 줄 흰 칸) · 밑줄 탭 · 가로선만 표 · 연한 배지 · 글꼴 Pretendard(jsdelivr · 무료) + 숫자도 같은 글꼴 고정폭. 색은 `html:not([data-theme=dark])` 에만 → '화면 어둡게'는 그대로. 새 화면은 --v8-* 토큰을 쓸 것. import 한 줄을 빼면 v7 로 돌아감
   - 실행 내역 엑셀 읽기 (2026-11-17 대표 우선순위 3 '실제 프로젝트로 검증'): `lib/designCost.ts` parseCostSheet 가 회사 '실행집행 내역서' 양식(구분 · 견적 항목 · 실행 내역 · 단위 · 수량 · 실행 단가 · 실행 금액 · 발주처 · 근거·확인)도 읽음 — 품목 = 실행 내역, 구분 · 견적 항목은 아래 줄로 이어 씀(견적 항목은 비고 앞 [ ]), 단위 저장, 발주처 '미정 · 내부 · —'는 업체 없음. 예전엔 '실행 단가' 머리 줄을 못 알아봐 '실행 내역을 찾지 못했습니다'가 났음. 시험 tests/design-cost.test.ts. 11/17 로제코(AR2610-08) 설계 프로젝트에 실물 60줄 · 49,703,600원 넣어 확인(openpyxl 계산과 일치 · 견적 공급가 6,000만 대비 실행 82.8%). 조달청 물가 기준은 이 견적처럼 인건비(인) · 식 단위가 많으면 0/60 매칭 → 시중노임단가 기준이 다음 과제
   - 사진 카드 (2026-11-17 대표 우선순위 1 'Houzz Pro 식 화면 개편'): 프로젝트 카드(홈 · 프로젝트 '카드' 보기 · `components/ProjectCards.tsx`) 맨 위 16:10 대표 사진 + 사진 위 구분 알약 · 남은 기간, 사진 없으면 구분 색 바탕에 연번. 프로젝트 상세 머리 아래 표지 사진(`ProjectCoverBanner` · 사진 있을 때만). 홈 숫자 카드 4개 왼쪽 아이콘 타일. 사진은 서버 함수 `project-covers`(verify_jwt false · x-sync-key = GDRIVE_SYNC_KEY · 10분마다 cron project_covers → private.project_covers_tick)가 drive_index 사진 중 하나를 골라(`project-covers/cover.ts` pickCover: 준공 · 촬영 > 투시도 · 렌더 · 성과물 그래픽 > 현장 사진(상권조사 제외) > 컨셉 · 시안 > 기타 · 계약 · 견적 · 통장 · 명함 · 캡처 · 로고 · 슬랙 · 카톡 제외 · 60KB 이상) 드라이브 미리보기(긴 변 800px)만 비공개 보관함 project-covers 에 넣음 · 표 public.project_covers(활성 팀원 읽기 · 쓰기는 서버만 · source auto|manual · 자동은 3일마다 다시 고름) · api.projectCovers()(서명 주소 1시간 · signedUrlCache) · 체험 모드는 사진 없음. 20261117201000_project_covers. 시험 `npm run test:covers`

diff --git a/erp/docs/DESIGN_V9.md b/erp/docs/DESIGN_V9.md
@@ -105,3 +105,4 @@
 - 창(모달) · 화이트보드 편집기 · 채팅 칸 · 오른쪽 일정 칸 · 왼쪽 메뉴는 대상이 아니다.
 
 - (2026-11-28 대표 지시 · 위 규칙보다 우선) **모서리는 어디나 3px**(스위치 · 숫자 동그라미 · 점만 둥글게). **아이콘 · 아이콘 칸에는 그림자 · 볼록 · 오목을 주지 않는다.** 제목 줄 없는 묶음(숫자 카드 줄 · 오른쪽 일정 칸)도 이름 띠('숫자 요약' · '일정')를 눌러 접고 편다 — foldCards.ts GROUPS.
+- (2026-11-28 대표 지시) 먹색은 연한 오프 블랙 `--v9-ink` #43474f(제목 글자 #32353c) · 아이콘 선 굵기 1.5 · 접힌 채팅 손잡이는 먹색 바탕 + 흰 글자로 또렷하게, 펼치면 왼쪽에서 늘어나며 열리고 왼쪽에 먹색 선.
